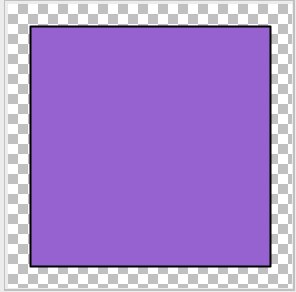
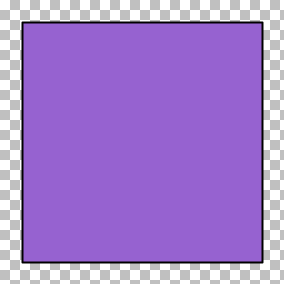
Refine pitch

Changed region(s): [[0.0, 0.0, 1.0, 1.0]]

diff --git a/svgo/PITCHME.md b/svgo/PITCHME.md
@@ -31,7 +31,7 @@ Svg tools
 
 
 @snap[north-east]
-<img style="border:0px; box-shadow: 0px 0px 0px rgba(0, 0, 0, .0);"  src="svgo/pitch/images/pale-violet-square.png">
+<img style="border:0px; box-shadow: 0px 0px 0px rgba(0, 0, 0, .0);" height="60px" src="svgo/pitch/images/pale-violet-square.png">
 @snapend
 
 SVGs are just XML
